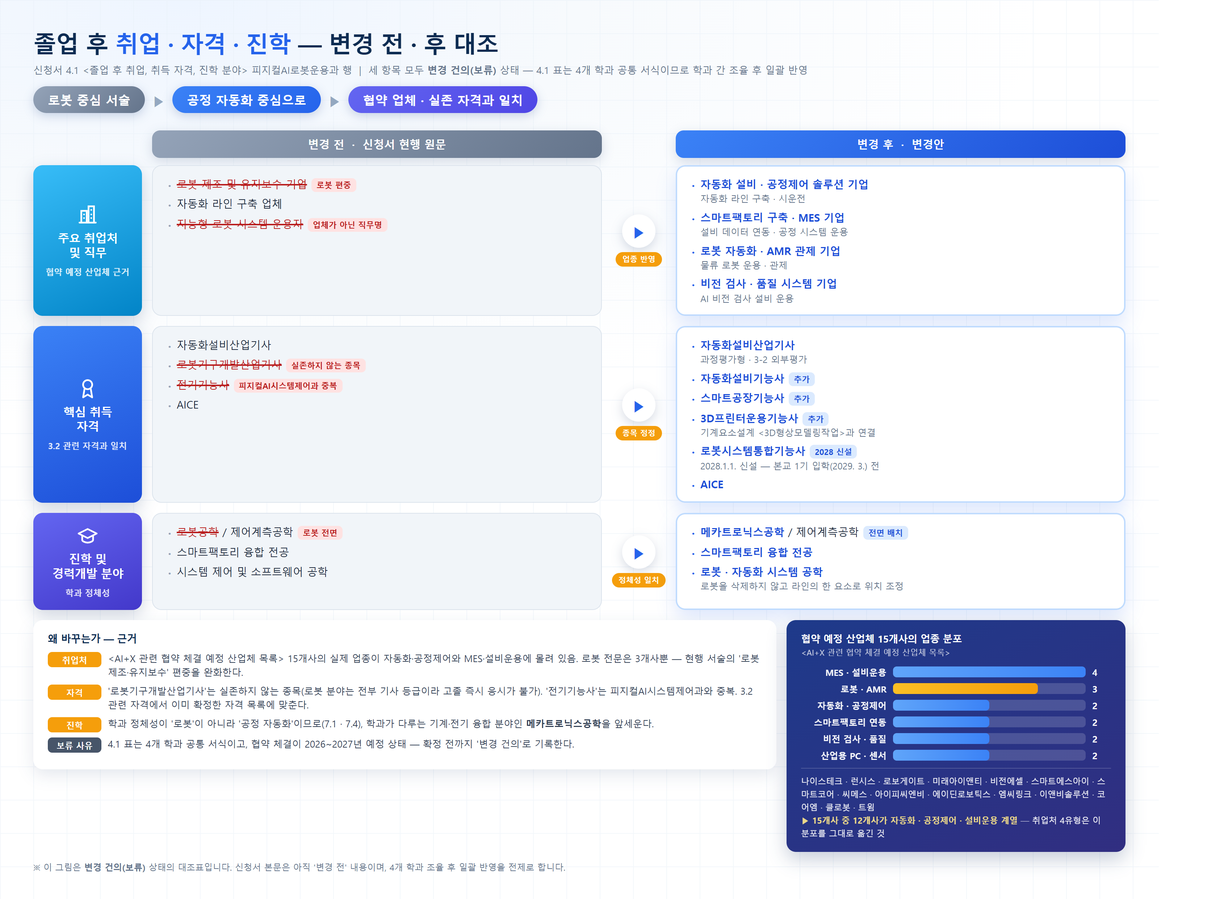
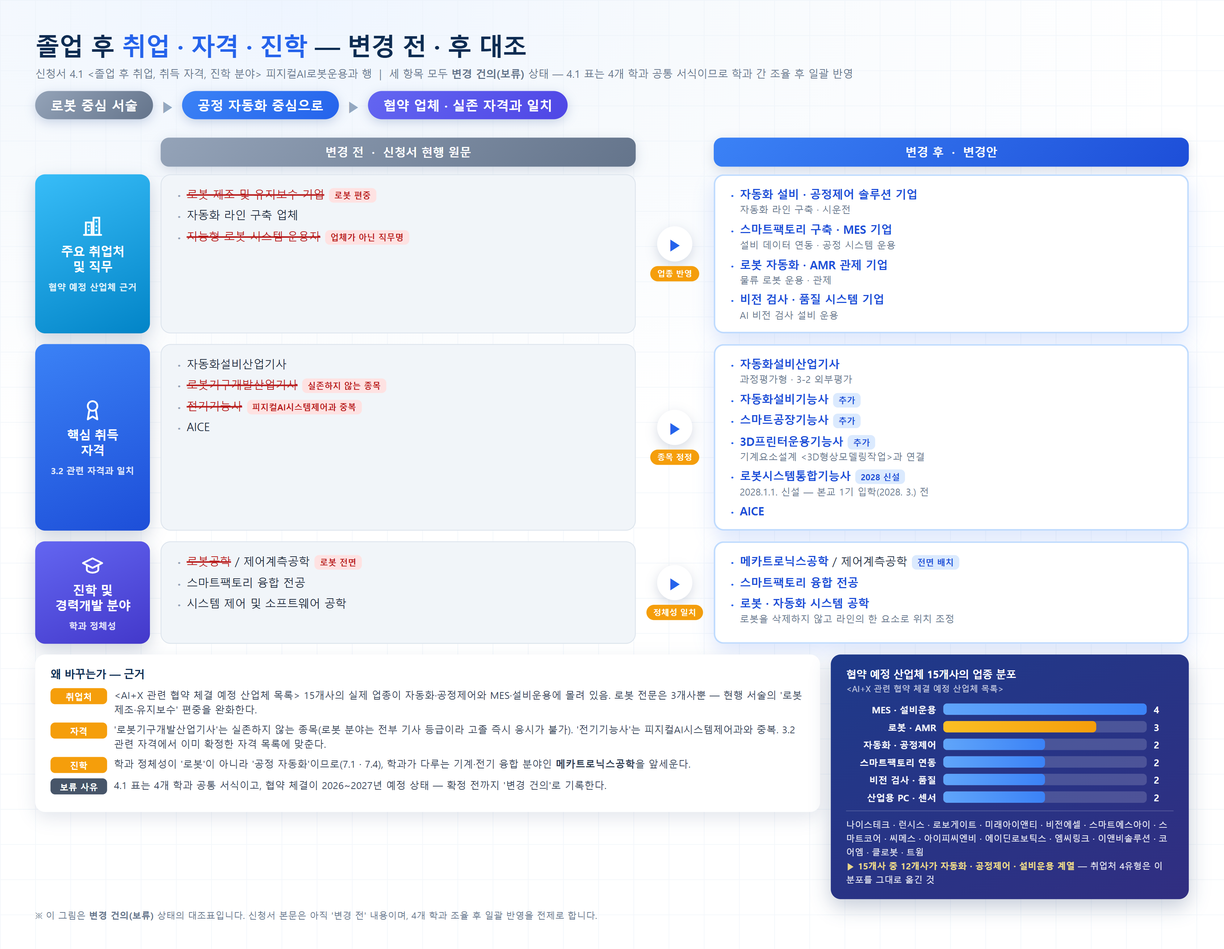
Lab roadmap figures: first cohort enters 2028 (opening year unified)

diff --git a/10_실습실3개년확충로드맵.html b/10_실습실3개년확충로드맵.html
@@ -1,1 +1,1 @@
-<meta charset='utf-8'><style>body{margin:0;background:#fff;font-family:'Malgun Gothic','맑은 고딕',sans-serif}text{font-family:'Malgun Gothic','맑은 고딕',sans-serif}</style><svg xmlns='http://www.w3.org/2000/svg' viewBox='0 0 1600 1212' width='1600' height='1212'><rect width='1600' height='1212' fill='#FFFFFF'/><text x="56" y="58" font-size="32" font-weight="800" fill="#1F4E79">실습실·기자재 3개년 확충 로드맵</text><text x="56" y="90" font-size="15" fill="#666">교육과정이 학년별로 순차 개설되므로(2029학년도 1학년 → 2030학년도 1·2학년 → 2031학년도 전 학년) 실습실은 해당 학년이 쓰기 직전 해에 먼저 구축한다  |  피지컬AI로봇운용과 기준 · 학급당 16명 × 2학급</text><rect x="56" y="118" width="456" height="86" rx="8" fill="#E8F1FA" stroke="#7FA8CE" stroke-width="1.4"/><text x="76" y="152" font-size="24" font-weight="800" fill="#2E6DA4">2028년</text><text x="76" y="176" font-size="15" font-weight="700" fill="#22303C">→ 1학년용 선행 구축 — 2029. 3. 1기 입학</text><text x="76" y="196" font-size="13.5" fill="#666">2029학년도 1학년 32명 사용  ·  쓰기 직전 해 구축</text><path d="M 524 152.0 l 20 9 l -20 9 z" fill="#C8D3DE"/><rect x="572" y="118" width="456" height="86" rx="8" fill="#EAF4EC" stroke="#89B99A" stroke-width="1.4"/><text x="592" y="152" font-size="24" font-weight="800" fill="#2E7D4F">2029년</text><text x="592" y="176" font-size="15" font-weight="700" fill="#22303C">→ 2학년용 선행 구축</text><text x="592" y="196" font-size="13.5" fill="#666">2030학년도 1·2학년 64명 사용  ·  쓰기 직전 해 구축</text><path d="M 1040 152.0 l 20 9 l -20 9 z" fill="#C8D3DE"/><rect x="1088" y="118" width="456" height="86" rx="8" fill="#FBF0E4" stroke="#D6A96A" stroke-width="1.4"/><text x="1108" y="152" font-size="24" font-weight="800" fill="#B5741B">2030년</text><text x="1108" y="176" font-size="15" font-weight="700" fill="#22303C">→ 3학년용 선행 구축</text><text x="1108" y="196" font-size="13.5" fill="#666">2031학년도 전 학년 96명 사용  ·  쓰기 직전 해 구축</text><rect x="56" y="230" width="456" height="128" rx="7" fill="#FFFFFF" stroke="#C8D3DE" stroke-width="1.2"/><rect x="56" y="230" width="5" height="128" rx="2.5" fill="#7FA8CE"/><rect x="70" y="243" width="42" height="20" rx="10" fill="#E3EFF9" stroke="#1F6FB2" stroke-width="0.9"/><text x="91" y="257" text-anchor="middle" font-size="12" font-weight="700" fill="#1F6FB2">신설</text><text x="122" y="258" font-size="16.5" font-weight="800" fill="#22303C">기계요소 설계2 실습실</text><text x="70" y="280" font-size="12.5" fill="#666">분반 운영 2실 구성</text><text x="70" y="300" font-size="12.5" fill="#22303C">설계용 컴퓨터(고사양) 16 · 3D 설계 SW 16 ·</text><text x="70" y="317" font-size="12.5" fill="#22303C">3차원 측정기 2 · 대형 디스플레이 1</text><text x="70" y="344" font-size="12.5" font-weight="700" fill="#2E6DA4">▷ 기계 제도(1-1) · 기계요소설계(1-2)</text><rect x="56" y="370" width="456" height="145" rx="7" fill="#FFFFFF" stroke="#C8D3DE" stroke-width="1.2"/><rect x="56" y="370" width="5" height="145" rx="2.5" fill="#7FA8CE"/><rect x="70" y="383" width="42" height="20" rx="10" fill="#E3EFF9" stroke="#1F6FB2" stroke-width="0.9"/><text x="91" y="397" text-anchor="middle" font-size="12" font-weight="700" fill="#1F6FB2">신설</text><text x="122" y="398" font-size="16.5" font-weight="800" fill="#22303C">실습 자재·재료실</text><text x="70" y="420" font-size="12.5" fill="#666">전 학년 실습 자재 보관</text><text x="70" y="440" font-size="12.5" fill="#22303C">중량 자재 랙 20 · 항온항습 부품 캐비닛 2 ·</text><text x="70" y="457" font-size="12.5" fill="#22303C">자재관리시스템(바코드·RFID) 1 · 재료 절단기 2 ·</text><text x="70" y="474" font-size="12.5" fill="#22303C">보호구 보관함 4</text><text x="70" y="501" font-size="12.5" font-weight="700" fill="#2E6DA4">▷ 1학년 실습 자재 전반</text><rect x="56" y="527" width="456" height="111" rx="7" fill="#FFFFFF" stroke="#C8D3DE" stroke-width="1.2"/><rect x="56" y="527" width="5" height="111" rx="2.5" fill="#7FA8CE"/><rect x="70" y="540" width="42" height="20" rx="10" fill="#EFF2F5" stroke="#5A6570" stroke-width="0.9"/><text x="91" y="554" text-anchor="middle" font-size="12" font-weight="700" fill="#5A6570">정비</text><text x="122" y="555" font-size="14.5" font-weight="800" fill="#22303C">자동화 기구 조립 실습실 · 기계요소설계 실습실</text><text x="70" y="577" font-size="12.5" fill="#666">명칭 정비 — 기존 기자재 활용</text><text x="70" y="597" font-size="12.5" fill="#22303C">신규 기자재 없음 (보유 38점 · 96점)</text><text x="70" y="624" font-size="12.5" font-weight="700" fill="#2E6DA4">▷ 기계수동조립(1-2) · 기계요소설계(1-2)</text><rect x="56" y="650" width="456" height="128" rx="7" fill="#FFFFFF" stroke="#C8D3DE" stroke-width="1.2"/><rect x="56" y="650" width="5" height="128" rx="2.5" fill="#7FA8CE"/><rect x="70" y="663" width="42" height="20" rx="10" fill="#FBE7E4" stroke="#B23A2E" stroke-width="0.9"/><text x="91" y="677" text-anchor="middle" font-size="12" font-weight="700" fill="#B23A2E">확인</text><text x="122" y="678" font-size="16.5" font-weight="800" fill="#22303C">빅데이터 분석실</text><text x="70" y="700" font-size="12.5" fill="#666">4개 학과 공통 — 현재 표에는 2026년으로 편성</text><text x="70" y="720" font-size="12.5" fill="#22303C">모니터 16 · 분석용 PC 16 · 태블릿 16 ·</text><text x="70" y="737" font-size="12.5" fill="#22303C">데이터 저장 서버 1</text><text x="70" y="764" font-size="12.5" font-weight="700" fill="#2E6DA4">▷ 인공지능 일반(1-2) · 빅 데이터 분석(2-1·2-2) — 연차 조정 확인</text><rect x="572" y="230" width="456" height="128" rx="7" fill="#FFFFFF" stroke="#C8D3DE" stroke-width="1.2"/><rect x="572" y="230" width="5" height="128" rx="2.5" fill="#89B99A"/><rect x="586" y="243" width="42" height="20" rx="10" fill="#E3EFF9" stroke="#1F6FB2" stroke-width="0.9"/><text x="607" y="257" text-anchor="middle" font-size="12" font-weight="700" fill="#1F6FB2">신설</text><text x="638" y="258" font-size="16.5" font-weight="800" fill="#22303C">기계소프트웨어개발1 실습실</text><text x="586" y="280" font-size="12.5" fill="#666">분반 운영 2실째 · 외부평가 시험장</text><text x="586" y="300" font-size="12.5" fill="#22303C">PLC 실험장치 8 · HMI 터치패널 8 · 공유압 제어 실습장치 8 ·</text><text x="586" y="317" font-size="12.5" fill="#22303C">센서 활용 키트 8 · 인버터+AC/DC 모터 8</text><text x="586" y="344" font-size="12.5" font-weight="700" fill="#2E7D4F">▷ 기계소프트웨어개발(2-2)</text><rect x="572" y="370" width="456" height="111" rx="7" fill="#FFFFFF" stroke="#C8D3DE" stroke-width="1.2"/><rect x="572" y="370" width="5" height="111" rx="2.5" fill="#89B99A"/><rect x="586" y="383" width="42" height="20" rx="10" fill="#FBF0DC" stroke="#8A5A00" stroke-width="0.9"/><text x="607" y="397" text-anchor="middle" font-size="12" font-weight="700" fill="#8A5A00">전환</text><text x="638" y="398" font-size="16.5" font-weight="800" fill="#22303C">자격 대비 자율실습실</text><text x="586" y="420" font-size="12.5" fill="#666">구 기계소프트웨어개발2 — 용도 부여</text><text x="586" y="440" font-size="12.5" fill="#22303C">기존 장비 활용 · 방과후 자동화설비기능사 대비 전용 공간</text><text x="586" y="467" font-size="12.5" font-weight="700" fill="#2E7D4F">▷ 2학년 자동화설비기능사(2-2)</text><rect x="1088" y="230" width="456" height="128" rx="7" fill="#FFFFFF" stroke="#C8D3DE" stroke-width="1.2"/><rect x="1088" y="230" width="5" height="128" rx="2.5" fill="#D6A96A"/><rect x="1102" y="243" width="42" height="20" rx="10" fill="#FBF0DC" stroke="#8A5A00" stroke-width="0.9"/><text x="1123" y="257" text-anchor="middle" font-size="12" font-weight="700" fill="#8A5A00">전환</text><text x="1154" y="258" font-size="16.5" font-weight="800" fill="#22303C">AMR 운용 실습실</text><text x="1102" y="280" font-size="12.5" fill="#666">구 스마트설비 실습실</text><text x="1102" y="300" font-size="12.5" fill="#22303C">협동로봇 4 · 로봇 통합 관제 서버 1 · 무선 통신 인프라 1 ·</text><text x="1102" y="317" font-size="12.5" fill="#22303C">통합 관제용 비디오 월 1</text><text x="1102" y="344" font-size="12.5" font-weight="700" fill="#B5741B">▷ AMR 운용(3-1·3-2)</text><rect x="1088" y="370" width="456" height="145" rx="7" fill="#FFFFFF" stroke="#C8D3DE" stroke-width="1.2"/><rect x="1088" y="370" width="5" height="145" rx="2.5" fill="#D6A96A"/><rect x="1102" y="383" width="42" height="20" rx="10" fill="#E3EFF9" stroke="#1F6FB2" stroke-width="0.9"/><text x="1123" y="397" text-anchor="middle" font-size="12" font-weight="700" fill="#1F6FB2">신설</text><text x="1154" y="398" font-size="16.5" font-weight="800" fill="#22303C">기계제어설계 실습실</text><text x="1102" y="420" font-size="12.5" fill="#666">3학년 전공심화 파트 1</text><text x="1102" y="440" font-size="12.5" fill="#22303C">PLC 실험장치(특수모듈) 16 · 인버터+AC/DC 모터 16 ·</text><text x="1102" y="457" font-size="12.5" fill="#22303C">공유압 제어 실습장치 16 · HMI 터치패널 16 · 컨베이어 모듈 4 ·</text><text x="1102" y="474" font-size="12.5" fill="#22303C">3D 설계 SW 16 · AI 비전 센서 8</text><text x="1102" y="501" font-size="12.5" font-weight="700" fill="#B5741B">▷ 기계제어설계(3-1·3-2)</text><rect x="1088" y="527" width="456" height="128" rx="7" fill="#FFFFFF" stroke="#C8D3DE" stroke-width="1.2"/><rect x="1088" y="527" width="5" height="128" rx="2.5" fill="#D6A96A"/><rect x="1102" y="540" width="42" height="20" rx="10" fill="#E3EFF9" stroke="#1F6FB2" stroke-width="0.9"/><text x="1123" y="554" text-anchor="middle" font-size="12" font-weight="700" fill="#1F6FB2">신설</text><text x="1154" y="555" font-size="16.5" font-weight="800" fill="#22303C">스마트팩토리 프로세서 실습실</text><text x="1102" y="577" font-size="12.5" fill="#666">3학년 전공심화 파트 2</text><text x="1102" y="597" font-size="12.5" fill="#22303C">PLC 실험장치 16 · 소형 팩토리 라인 설비 2 · HMI 장비 16 ·</text><text x="1102" y="614" font-size="12.5" fill="#22303C">협동 로봇 실습 장비 4</text><text x="1102" y="641" font-size="12.5" font-weight="700" fill="#B5741B">▷ 스마트팩토리 프로세서(3-1·3-2)</text><rect x="1088" y="667" width="456" height="145" rx="7" fill="#FFFFFF" stroke="#C8D3DE" stroke-width="1.2"/><rect x="1088" y="667" width="5" height="145" rx="2.5" fill="#D6A96A"/><rect x="1102" y="680" width="42" height="20" rx="10" fill="#FBF0DC" stroke="#8A5A00" stroke-width="0.9"/><text x="1123" y="694" text-anchor="middle" font-size="12" font-weight="700" fill="#8A5A00">확장</text><text x="1154" y="695" font-size="16.5" font-weight="800" fill="#22303C">AX 캡스톤 제작실</text><text x="1102" y="717" font-size="12.5" fill="#666">프로젝트실 + 인접 재료실 통합</text><text x="1102" y="737" font-size="12.5" fill="#22303C">대형 작업대 8 · 전동·수공구 8 · 3D 프린터 4 ·</text><text x="1102" y="754" font-size="12.5" fill="#22303C">소형 CNC 조각기 2 · 거치·보관 랙 8 · 집진·국소배기 2 ·</text><text x="1102" y="771" font-size="12.5" fill="#22303C">촬영·발표 세트 1 · 출입 관리 2</text><text x="1102" y="798" font-size="12.5" font-weight="700" fill="#B5741B">▷ 캡스톤 디자인(3-2) — 두 학과 통합 16팀 중 8팀</text><rect x="1088" y="824" width="456" height="128" rx="7" fill="#FFFFFF" stroke="#C8D3DE" stroke-width="1.2"/><rect x="1088" y="824" width="5" height="128" rx="2.5" fill="#D6A96A"/><rect x="1102" y="837" width="42" height="20" rx="10" fill="#FBF0DC" stroke="#8A5A00" stroke-width="0.9"/><text x="1123" y="851" text-anchor="middle" font-size="12" font-weight="700" fill="#8A5A00">전환</text><text x="1154" y="852" font-size="16.5" font-weight="800" fill="#22303C">과정평가형 운영실</text><text x="1102" y="874" font-size="12.5" fill="#666">구 스마트설계 실습실</text><text x="1102" y="894" font-size="12.5" fill="#22303C">시험위원 책상 세트 6 · 채점용 PC 4 · 보안 복합기 1 ·</text><text x="1102" y="911" font-size="12.5" fill="#22303C">문서보안 캐비닛 4 · 시험장 CCTV 1 · 회의 테이블 1</text><text x="1102" y="938" font-size="12.5" font-weight="700" fill="#B5741B">▷ 과정평가형 외부평가(3-2)</text><rect x="1088" y="964" width="456" height="128" rx="7" fill="#FFFFFF" stroke="#C8D3DE" stroke-width="1.2"/><rect x="1088" y="964" width="5" height="128" rx="2.5" fill="#D6A96A"/><rect x="1102" y="977" width="42" height="20" rx="10" fill="#FBE7E4" stroke="#B23A2E" stroke-width="0.9"/><text x="1123" y="991" text-anchor="middle" font-size="12" font-weight="700" fill="#B23A2E">협의</text><text x="1154" y="992" font-size="16.5" font-weight="800" fill="#22303C">AI 로봇과 자동제어 실습실2</text><text x="1102" y="1014" font-size="12.5" fill="#666">피지컬AI설계제작과 공동 운영 교과</text><text x="1102" y="1034" font-size="12.5" fill="#22303C">협동로봇 4 · 자율주행 물류로봇 2 · 고성능 PLC 16 ·</text><text x="1102" y="1051" font-size="12.5" fill="#22303C">시뮬레이션 키트 16 · AI 비전 8</text><text x="1102" y="1078" font-size="12.5" font-weight="700" fill="#B5741B">▷ AI 로봇과 자동제어(3-1·3-2) — 피지컬AI설계제작과 협의 대상</text><line x1="56" y1="1116" x2="1544" y2="1116" stroke="#C8D3DE" stroke-width="1"/><text x="56" y="1138" font-size="13.5" fill="#666">▶ 연도 = 해당 학년 실습실을 쓰기 직전 해(교육과정 총괄 지시 「2028~2030 연차별」 · 피지컬AI설계제작과와 같은 기준).  1기 신입생 2029. 3. 입학 · 3학년 교과는 2031학년도</text><text x="56" y="1160" font-size="13.5" fill="#666">▶ 신규 기자재 추정액(견적 전) : 2028년 약 1.1억 · 2029년 약 0.9억 · 2030년 약 3.3억 (AMR 운용·스마트팩토리 프로세서 원안 품목 제외) — 3학년분이 가장 크다</text><text x="56" y="1182" font-size="13.5" fill="#B23A2E">▶ 신청서 Ⅶ 예산 연차는 2028년 41.6억 → 2029년 16.6억 → 2030년 15.5억으로 줄어드는 구조라 3학년 기자재가 몰리는 2030년과 어긋난다 — 총괄 확인 필요</text></svg>
+<meta charset='utf-8'><style>body{margin:0;background:#fff;font-family:'Malgun Gothic','맑은 고딕',sans-serif}text{font-family:'Malgun Gothic','맑은 고딕',sans-serif}</style><svg xmlns='http://www.w3.org/2000/svg' viewBox='0 0 1600 1212' width='1600' height='1212'><rect width='1600' height='1212' fill='#FFFFFF'/><text x="56" y="58" font-size="32" font-weight="800" fill="#1F4E79">실습실·기자재 3개년 확충 로드맵</text><text x="56" y="90" font-size="15" fill="#666">교육과정이 학년별로 순차 개설되므로(2028학년도 1학년 → 2029학년도 1·2학년 → 2030학년도 전 학년) 실습실은 해당 학년이 개설되는 해에 구축한다  |  피지컬AI로봇운용과 기준 · 학급당 16명 × 2학급</text><rect x="56" y="118" width="456" height="86" rx="8" fill="#E8F1FA" stroke="#7FA8CE" stroke-width="1.4"/><text x="76" y="152" font-size="24" font-weight="800" fill="#2E6DA4">2028년</text><text x="76" y="176" font-size="15" font-weight="700" fill="#22303C">→ 1학년용 구축 — 2028. 3. 1기 입학</text><text x="76" y="196" font-size="13.5" fill="#666">2028학년도 1학년 32명 사용  ·  개설하는 해 구축</text><path d="M 524 152.0 l 20 9 l -20 9 z" fill="#C8D3DE"/><rect x="572" y="118" width="456" height="86" rx="8" fill="#EAF4EC" stroke="#89B99A" stroke-width="1.4"/><text x="592" y="152" font-size="24" font-weight="800" fill="#2E7D4F">2029년</text><text x="592" y="176" font-size="15" font-weight="700" fill="#22303C">→ 2학년용 구축</text><text x="592" y="196" font-size="13.5" fill="#666">2029학년도 1·2학년 64명 사용  ·  개설하는 해 구축</text><path d="M 1040 152.0 l 20 9 l -20 9 z" fill="#C8D3DE"/><rect x="1088" y="118" width="456" height="86" rx="8" fill="#FBF0E4" stroke="#D6A96A" stroke-width="1.4"/><text x="1108" y="152" font-size="24" font-weight="800" fill="#B5741B">2030년</text><text x="1108" y="176" font-size="15" font-weight="700" fill="#22303C">→ 3학년용 구축</text><text x="1108" y="196" font-size="13.5" fill="#666">2030학년도 전 학년 96명 사용  ·  개설하는 해 구축</text><rect x="56" y="230" width="456" height="128" rx="7" fill="#FFFFFF" stroke="#C8D3DE" stroke-width="1.2"/><rect x="56" y="230" width="5" height="128" rx="2.5" fill="#7FA8CE"/><rect x="70" y="243" width="42" height="20" rx="10" fill="#E3EFF9" stroke="#1F6FB2" stroke-width="0.9"/><text x="91" y="257" text-anchor="middle" font-size="12" font-weight="700" fill="#1F6FB2">신설</text><text x="122" y="258" font-size="16.5" font-weight="800" fill="#22303C">기계요소 설계2 실습실</text><text x="70" y="280" font-size="12.5" fill="#666">분반 운영 2실 구성</text><text x="70" y="300" font-size="12.5" fill="#22303C">설계용 컴퓨터(고사양) 16 · 3D 설계 SW 16 ·</text><text x="70" y="317" font-size="12.5" fill="#22303C">3차원 측정기 2 · 대형 디스플레이 1</text><text x="70" y="344" font-size="12.5" font-weight="700" fill="#2E6DA4">▷ 기계 제도(1-1) · 기계요소설계(1-2)</text><rect x="56" y="370" width="456" height="145" rx="7" fill="#FFFFFF" stroke="#C8D3DE" stroke-width="1.2"/><rect x="56" y="370" width="5" height="145" rx="2.5" fill="#7FA8CE"/><rect x="70" y="383" width="42" height="20" rx="10" fill="#E3EFF9" stroke="#1F6FB2" stroke-width="0.9"/><text x="91" y="397" text-anchor="middle" font-size="12" font-weight="700" fill="#1F6FB2">신설</text><text x="122" y="398" font-size="16.5" font-weight="800" fill="#22303C">실습 자재·재료실</text><text x="70" y="420" font-size="12.5" fill="#666">전 학년 실습 자재 보관</text><text x="70" y="440" font-size="12.5" fill="#22303C">중량 자재 랙 20 · 항온항습 부품 캐비닛 2 ·</text><text x="70" y="457" font-size="12.5" fill="#22303C">자재관리시스템(바코드·RFID) 1 · 재료 절단기 2 ·</text><text x="70" y="474" font-size="12.5" fill="#22303C">보호구 보관함 4</text><text x="70" y="501" font-size="12.5" font-weight="700" fill="#2E6DA4">▷ 1학년 실습 자재 전반</text><rect x="56" y="527" width="456" height="111" rx="7" fill="#FFFFFF" stroke="#C8D3DE" stroke-width="1.2"/><rect x="56" y="527" width="5" height="111" rx="2.5" fill="#7FA8CE"/><rect x="70" y="540" width="42" height="20" rx="10" fill="#EFF2F5" stroke="#5A6570" stroke-width="0.9"/><text x="91" y="554" text-anchor="middle" font-size="12" font-weight="700" fill="#5A6570">정비</text><text x="122" y="555" font-size="14.5" font-weight="800" fill="#22303C">자동화 기구 조립 실습실 · 기계요소설계 실습실</text><text x="70" y="577" font-size="12.5" fill="#666">명칭 정비 — 기존 기자재 활용</text><text x="70" y="597" font-size="12.5" fill="#22303C">신규 기자재 없음 (보유 38점 · 96점)</text><text x="70" y="624" font-size="12.5" font-weight="700" fill="#2E6DA4">▷ 기계수동조립(1-2) · 기계요소설계(1-2)</text><rect x="56" y="650" width="456" height="128" rx="7" fill="#FFFFFF" stroke="#C8D3DE" stroke-width="1.2"/><rect x="56" y="650" width="5" height="128" rx="2.5" fill="#7FA8CE"/><rect x="70" y="663" width="42" height="20" rx="10" fill="#FBE7E4" stroke="#B23A2E" stroke-width="0.9"/><text x="91" y="677" text-anchor="middle" font-size="12" font-weight="700" fill="#B23A2E">확인</text><text x="122" y="678" font-size="16.5" font-weight="800" fill="#22303C">빅데이터 분석실</text><text x="70" y="700" font-size="12.5" fill="#666">4개 학과 공통 — 현재 표에는 2026년으로 편성</text><text x="70" y="720" font-size="12.5" fill="#22303C">모니터 16 · 분석용 PC 16 · 태블릿 16 ·</text><text x="70" y="737" font-size="12.5" fill="#22303C">데이터 저장 서버 1</text><text x="70" y="764" font-size="12.5" font-weight="700" fill="#2E6DA4">▷ 인공지능 일반(1-2) · 빅 데이터 분석(2-1·2-2) — 연차 조정 확인</text><rect x="572" y="230" width="456" height="128" rx="7" fill="#FFFFFF" stroke="#C8D3DE" stroke-width="1.2"/><rect x="572" y="230" width="5" height="128" rx="2.5" fill="#89B99A"/><rect x="586" y="243" width="42" height="20" rx="10" fill="#E3EFF9" stroke="#1F6FB2" stroke-width="0.9"/><text x="607" y="257" text-anchor="middle" font-size="12" font-weight="700" fill="#1F6FB2">신설</text><text x="638" y="258" font-size="16.5" font-weight="800" fill="#22303C">기계소프트웨어개발1 실습실</text><text x="586" y="280" font-size="12.5" fill="#666">분반 운영 2실째 · 외부평가 시험장</text><text x="586" y="300" font-size="12.5" fill="#22303C">PLC 실험장치 8 · HMI 터치패널 8 · 공유압 제어 실습장치 8 ·</text><text x="586" y="317" font-size="12.5" fill="#22303C">센서 활용 키트 8 · 인버터+AC/DC 모터 8</text><text x="586" y="344" font-size="12.5" font-weight="700" fill="#2E7D4F">▷ 기계소프트웨어개발(2-2)</text><rect x="572" y="370" width="456" height="111" rx="7" fill="#FFFFFF" stroke="#C8D3DE" stroke-width="1.2"/><rect x="572" y="370" width="5" height="111" rx="2.5" fill="#89B99A"/><rect x="586" y="383" width="42" height="20" rx="10" fill="#FBF0DC" stroke="#8A5A00" stroke-width="0.9"/><text x="607" y="397" text-anchor="middle" font-size="12" font-weight="700" fill="#8A5A00">전환</text><text x="638" y="398" font-size="16.5" font-weight="800" fill="#22303C">자격 대비 자율실습실</text><text x="586" y="420" font-size="12.5" fill="#666">구 기계소프트웨어개발2 — 용도 부여</text><text x="586" y="440" font-size="12.5" fill="#22303C">기존 장비 활용 · 방과후 자동화설비기능사 대비 전용 공간</text><text x="586" y="467" font-size="12.5" font-weight="700" fill="#2E7D4F">▷ 2학년 자동화설비기능사(2-2)</text><rect x="1088" y="230" width="456" height="128" rx="7" fill="#FFFFFF" stroke="#C8D3DE" stroke-width="1.2"/><rect x="1088" y="230" width="5" height="128" rx="2.5" fill="#D6A96A"/><rect x="1102" y="243" width="42" height="20" rx="10" fill="#FBF0DC" stroke="#8A5A00" stroke-width="0.9"/><text x="1123" y="257" text-anchor="middle" font-size="12" font-weight="700" fill="#8A5A00">전환</text><text x="1154" y="258" font-size="16.5" font-weight="800" fill="#22303C">AMR 운용 실습실</text><text x="1102" y="280" font-size="12.5" fill="#666">구 스마트설비 실습실</text><text x="1102" y="300" font-size="12.5" fill="#22303C">협동로봇 4 · 로봇 통합 관제 서버 1 · 무선 통신 인프라 1 ·</text><text x="1102" y="317" font-size="12.5" fill="#22303C">통합 관제용 비디오 월 1</text><text x="1102" y="344" font-size="12.5" font-weight="700" fill="#B5741B">▷ AMR 운용(3-1·3-2)</text><rect x="1088" y="370" width="456" height="145" rx="7" fill="#FFFFFF" stroke="#C8D3DE" stroke-width="1.2"/><rect x="1088" y="370" width="5" height="145" rx="2.5" fill="#D6A96A"/><rect x="1102" y="383" width="42" height="20" rx="10" fill="#E3EFF9" stroke="#1F6FB2" stroke-width="0.9"/><text x="1123" y="397" text-anchor="middle" font-size="12" font-weight="700" fill="#1F6FB2">신설</text><text x="1154" y="398" font-size="16.5" font-weight="800" fill="#22303C">기계제어설계 실습실</text><text x="1102" y="420" font-size="12.5" fill="#666">3학년 전공심화 파트 1</text><text x="1102" y="440" font-size="12.5" fill="#22303C">PLC 실험장치(특수모듈) 16 · 인버터+AC/DC 모터 16 ·</text><text x="1102" y="457" font-size="12.5" fill="#22303C">공유압 제어 실습장치 16 · HMI 터치패널 16 · 컨베이어 모듈 4 ·</text><text x="1102" y="474" font-size="12.5" fill="#22303C">3D 설계 SW 16 · AI 비전 센서 8</text><text x="1102" y="501" font-size="12.5" font-weight="700" fill="#B5741B">▷ 기계제어설계(3-1·3-2)</text><rect x="1088" y="527" width="456" height="128" rx="7" fill="#FFFFFF" stroke="#C8D3DE" stroke-width="1.2"/><rect x="1088" y="527" width="5" height="128" rx="2.5" fill="#D6A96A"/><rect x="1102" y="540" width="42" height="20" rx="10" fill="#E3EFF9" stroke="#1F6FB2" stroke-width="0.9"/><text x="1123" y="554" text-anchor="middle" font-size="12" font-weight="700" fill="#1F6FB2">신설</text><text x="1154" y="555" font-size="16.5" font-weight="800" fill="#22303C">스마트팩토리 프로세서 실습실</text><text x="1102" y="577" font-size="12.5" fill="#666">3학년 전공심화 파트 2</text><text x="1102" y="597" font-size="12.5" fill="#22303C">PLC 실험장치 16 · 소형 팩토리 라인 설비 2 · HMI 장비 16 ·</text><text x="1102" y="614" font-size="12.5" fill="#22303C">협동 로봇 실습 장비 4</text><text x="1102" y="641" font-size="12.5" font-weight="700" fill="#B5741B">▷ 스마트팩토리 프로세서(3-1·3-2)</text><rect x="1088" y="667" width="456" height="145" rx="7" fill="#FFFFFF" stroke="#C8D3DE" stroke-width="1.2"/><rect x="1088" y="667" width="5" height="145" rx="2.5" fill="#D6A96A"/><rect x="1102" y="680" width="42" height="20" rx="10" fill="#FBF0DC" stroke="#8A5A00" stroke-width="0.9"/><text x="1123" y="694" text-anchor="middle" font-size="12" font-weight="700" fill="#8A5A00">확장</text><text x="1154" y="695" font-size="16.5" font-weight="800" fill="#22303C">AX 캡스톤 제작실</text><text x="1102" y="717" font-size="12.5" fill="#666">프로젝트실 + 인접 재료실 통합</text><text x="1102" y="737" font-size="12.5" fill="#22303C">대형 작업대 8 · 전동·수공구 8 · 3D 프린터 4 ·</text><text x="1102" y="754" font-size="12.5" fill="#22303C">소형 CNC 조각기 2 · 거치·보관 랙 8 · 집진·국소배기 2 ·</text><text x="1102" y="771" font-size="12.5" fill="#22303C">촬영·발표 세트 1 · 출입 관리 2</text><text x="1102" y="798" font-size="12.5" font-weight="700" fill="#B5741B">▷ 캡스톤 디자인(3-2) — 두 학과 통합 16팀 중 8팀</text><rect x="1088" y="824" width="456" height="128" rx="7" fill="#FFFFFF" stroke="#C8D3DE" stroke-width="1.2"/><rect x="1088" y="824" width="5" height="128" rx="2.5" fill="#D6A96A"/><rect x="1102" y="837" width="42" height="20" rx="10" fill="#FBF0DC" stroke="#8A5A00" stroke-width="0.9"/><text x="1123" y="851" text-anchor="middle" font-size="12" font-weight="700" fill="#8A5A00">전환</text><text x="1154" y="852" font-size="16.5" font-weight="800" fill="#22303C">과정평가형 운영실</text><text x="1102" y="874" font-size="12.5" fill="#666">구 스마트설계 실습실</text><text x="1102" y="894" font-size="12.5" fill="#22303C">시험위원 책상 세트 6 · 채점용 PC 4 · 보안 복합기 1 ·</text><text x="1102" y="911" font-size="12.5" fill="#22303C">문서보안 캐비닛 4 · 시험장 CCTV 1 · 회의 테이블 1</text><text x="1102" y="938" font-size="12.5" font-weight="700" fill="#B5741B">▷ 과정평가형 외부평가(3-2)</text><rect x="1088" y="964" width="456" height="128" rx="7" fill="#FFFFFF" stroke="#C8D3DE" stroke-width="1.2"/><rect x="1088" y="964" width="5" height="128" rx="2.5" fill="#D6A96A"/><rect x="1102" y="977" width="42" height="20" rx="10" fill="#FBE7E4" stroke="#B23A2E" stroke-width="0.9"/><text x="1123" y="991" text-anchor="middle" font-size="12" font-weight="700" fill="#B23A2E">협의</text><text x="1154" y="992" font-size="16.5" font-weight="800" fill="#22303C">AI 로봇과 자동제어 실습실2</text><text x="1102" y="1014" font-size="12.5" fill="#666">피지컬AI설계제작과 공동 운영 교과</text><text x="1102" y="1034" font-size="12.5" fill="#22303C">협동로봇 4 · 자율주행 물류로봇 2 · 고성능 PLC 16 ·</text><text x="1102" y="1051" font-size="12.5" fill="#22303C">시뮬레이션 키트 16 · AI 비전 8</text><text x="1102" y="1078" font-size="12.5" font-weight="700" fill="#B5741B">▷ AI 로봇과 자동제어(3-1·3-2) — 피지컬AI설계제작과 협의 대상</text><line x1="56" y1="1116" x2="1544" y2="1116" stroke="#C8D3DE" stroke-width="1"/><text x="56" y="1138" font-size="13.5" fill="#666">▶ 연도 = 해당 학년이 개설되는 해(교육과정 총괄 지시 「2028~2030 연차별」 · 본문 기자재 확보 계획과 같은 기준).  1기 신입생 2028. 3. 입학 · 3학년 교과는 2030학년도</text><text x="56" y="1160" font-size="13.5" fill="#666">▶ 신규 기자재 추정액(견적 전) : 2028년 약 1.1억 · 2029년 약 0.9억 · 2030년 약 3.3억 (AMR 운용·스마트팩토리 프로세서 원안 품목 제외) — 3학년분이 가장 크다</text><text x="56" y="1182" font-size="13.5" fill="#B23A2E">▶ 신청서 Ⅶ 예산 연차는 2028년 41.6억 → 2029년 16.6억 → 2030년 15.5억으로 줄어드는 구조라 3학년 기자재가 몰리는 2030년과 어긋난다 — 총괄 확인 필요</text></svg>

diff --git a/학과별/피지컬AI설계제작과_7_실습실3개년로드맵.html b/학과별/피지컬AI설계제작과_7_실습실3개년로드맵.html
@@ -41,4 +41,4 @@ table{border-collapse:separate;border-spacing:0;width:100%} td,th{padding:7px 9p
 .rm{display:grid;grid-template-columns:repeat(3,1fr);gap:40px} .rm > div{position:relative} .rm > div:not(:last-child)::after{content:"➜";position:absolute;right:-38px;top:60px;transform:translateY(-50%);width:40px;height:40px;border-radius:50%;background:linear-gradient(135deg,#FF6B6B,#845EF7);color:#fff;font-size:22px;font-weight:900;display:flex;align-items:center;justify-content:center;box-shadow:0 4px 10px rgba(80,40,160,.35);z-index:5}
 .rm > div:nth-child(1) .rmh{background:linear-gradient(135deg,#FF6B6B,#FF922B)!important} .rm > div:nth-child(2) .rmh{background:linear-gradient(135deg,#20C997,#228BE6)!important} .rm > div:nth-child(3) .rmh{background:linear-gradient(135deg,#7950F2,#E64980)!important}
 .rm > div:nth-child(1) .rmb .hd{color:#E8590C!important} .rm > div:nth-child(2) .rmb .hd{color:#1971C2!important} .rm > div:nth-child(3) .rmb .hd{color:#5F3DC4!important}
-.rmh{border-radius:16px 16px 0 0;padding:12px 16px;color:#fff} .rmh b{font-size:26px} .rmh span{font-size:14.5px;display:block} .rmb{background:#fff;border:2px solid #E3E0F5;border-top:none;border-radius:0 0 16px 16px;padding:12px 14px} .rmb .r{margin-bottom:11px;padding-left:10px;border-left:4px solid #E9E3FF} .rmb .r b{font-size:16px} .rmb .r div{font-size:14px;color:#4a5261;line-height:1.45}</style></head><body><div class="w"><h1><em>피지컬AI설계제작과</em> 실습실·기자재 3개년 로드맵</h1><div class="sub">1기 신입생 2029년 3월 입학 — 실습실과 기자재는 그 학년이 쓰기 직전 해에 먼저 구축한다</div><div class="story"><span class="st l">2028 · 1학년용</span><span class="arw">▶</span><span class="st">2029 · 2학년용</span><span class="arw">▶</span><span class="st">2030 · 3학년용</span></div><div class="rm"><div><div class="rmh" style="background:#2FA4E7"><b>2028년</b><span>1학년 실습실 선행 구축 및 기존 공간 보호</span></div><div class="rmb"><div class="hd" style="font-size:15.5px;color:#2FA4E7">실습실 배치·전환</div><div class="r"><b>선반 가공실·밀링가공실</b><div>창조관 1층 우측·중앙 · 2028.1 동계방학</div><div>기존 범용기 실습실 개보수, 전기·집진·안전펜스 보강</div></div><div class="r"><b>기계기초공작실(구 제품개발실 재통합)</b><div>창조관 1층 우측 · 2028.7 하계방학</div><div>측정·메이커 분할 계획을 취소하고 수가공 작업대와 선반·밀링 강의 기능을 하나의 기계기초공작실로 재통합</div></div><div class="r"><b>빅 데이터 분석실(MCT-2 전환)</b><div>창조관 1층 중앙 MCT-2 · 2028.7 하계방학</div><div>MCT-2를 분석용 컴퓨터실로 전환하고 전원·냉방·서버 랙 증설</div></div><div class="r"><b>밀링 강의실·학과사무실·준비실</b><div>창조관 1층 중앙·우측 · 2028.7</div><div>도색·조명·수납 중심의 경미 개보수</div></div><div class="r"><b>측정·메이커·3D프린터 기능 이전 준비</b><div>명장관 2층 우측 3실(2029년 겨울 전환 예정) · 2028 계획 확정</div><div>창조관 우측동 분할 계획을 취소하고 명장관 2층 3실 이전·전환 계획과 기존 공간 존치 원칙 확정</div></div><div class="hd" style="font-size:15.5px;color:#2FA4E7;margin-top:8px">기자재</div><div class="r"><b>선반 가공실</b> <span class="chip" style="font-size:12.5px;padding:2px 7px">1순위</span><div>범용 선반, 탭·드릴·보링 공구 세트, 안전 방호장치</div><div style="color:#1a2233;font-weight:700">2인 1대·8대</div></div><div class="r"><b>밀링가공실</b> <span class="chip" style="font-size:12.5px;padding:2px 7px">1순위</span><div>범용 밀링, 집진 설비</div><div style="color:#1a2233;font-weight:700">2인 1대·8대</div></div><div class="r"><b>기계기초공작실</b> <span class="chip" style="font-size:12.5px;padding:2px 7px">1순위</span><div>수공구 세트(줄·톱·바이스), 수가공 작업대, 선반·밀링 강의용 모형</div><div style="color:#1a2233;font-weight:700">2인 1대·8대</div></div><div class="r"><b>빅 데이터 분석실</b> <span class="chip" style="font-size:12.5px;padding:2px 7px">2순위</span><div>분석용 PC(파이썬 환경), 실습 서버, 대형 표시장치</div><div style="color:#1a2233;font-weight:700">1인 1대+예비 2·18식</div></div><div class="r"><b>측정·메이커·3D프린터 이전 준비</b> <span class="chip" style="font-size:12.5px;padding:2px 7px">2순위</span><div>명장관 2층 3실 전환을 위한 공간·전기·환기 정비 설계 및 이전 준비</div><div style="color:#1a2233;font-weight:700">3실</div></div><div class="r"><b>공통</b> <span class="chip" style="font-size:12.5px;padding:2px 7px">1순위</span><div>버니어캘리퍼스·마이크로미터 등 기초 측정기 세트, 안전보호구</div><div style="color:#1a2233;font-weight:700">2인 1세트·8식</div></div></div></div><div><div class="rmh" style="background:#2563EB"><b>2029년</b><span>1기 신입생 입학·2학년 실습실 선행 정비 및 겨울방학 1차 전환</span></div><div class="rmb"><div class="hd" style="font-size:15.5px;color:#2563EB">실습실 배치·전환</div><div class="r"><b>기계요소설계 실습실(+CAD 기능 통합 → 설계실습실)</b><div>창조관 1층 중앙 · 2029.7 하계방학</div><div>기계요소설계 실습실에 CAD 기능을 통합하여 3D 설계·도면 출력 환경 구축</div></div><div class="r"><b>컴퓨터 활용 생산 CNC선반</b><div>창조관 1층 우측 · 2029.7 하계방학</div><div>CNC 선반·공구 프리세터·절삭공구 구축, 바닥 하중 및 3상 전원 보강</div></div><div class="r"><b>측정실·메이커실·3D프린터실</b><div>명장관 2층 우측 3실 · 2029년 겨울방학</div><div>구 재료실·구 AI실·기존 3D프린터실을 전환하고 항온·방진·환기·전기 설비를 정비</div></div><div class="hd" style="font-size:15.5px;color:#2563EB;margin-top:8px">기자재</div><div class="r"><b>측정실(명장관 2층)</b> <span class="chip" style="font-size:12.5px;padding:2px 7px">2순위</span><div>하이트게이지, 투영기, 표면조도계, 측정기 교정 세트, 항온 관리 설비</div><div style="color:#1a2233;font-weight:700">2인 1세트·8식</div></div><div class="r"><b>컴퓨터 활용 생산 CNC선반</b> <span class="chip" style="font-size:12.5px;padding:2px 7px">1순위</span><div>CNC 선반, CAM 소프트웨어, 공구 프리세터, 절삭공구·홀더</div><div style="color:#1a2233;font-weight:700">6대·CAM 18라이선스</div></div><div class="r"><b>기계요소설계 실습실</b> <span class="chip" style="font-size:12.5px;padding:2px 7px">1순위</span><div>3D 워크스테이션, 2D·3D CAD 소프트웨어, 전자칠판, 도면 출력기</div><div style="color:#1a2233;font-weight:700">1인 1대+예비 2·18식</div></div><div class="r"><b>메이커실·3D프린터실</b> <span class="chip" style="font-size:12.5px;padding:2px 7px">2순위</span><div>조립 작업대·전동공구·소형 제어 실습 키트·FDM 3D프린터·후가공대·환기 설비</div><div style="color:#1a2233;font-weight:700">조립 작업대 8대·3D프린터 8대</div></div></div></div><div><div class="rmh" style="background:#4F46E5"><b>2030년</b><span>MCT-1·명장관 1층·3학년 AX 실습실 전환</span></div><div class="rmb"><div class="hd" style="font-size:15.5px;color:#4F46E5">실습실 배치·전환</div><div class="r"><b>피지컬 AI 실습실</b><div>명장관 1층 우측 · 2030.7 여름방학</div><div>협동로봇 셀 신설, 안전펜스·스캐너·바닥 앵커·3상 전원 구축</div></div><div class="r"><b>AI 비전 검사 실습실</b><div>명장관 1층 우측 기존 로봇 기구개발 실습실 전환 · 2030.7 여름방학</div><div>암막·조명 제어·검사 부스·GPU 서버 랙 설치 및 용도 전환</div></div><div class="r"><b>AI 자율가공실</b><div>창조관 1층 우측 · 2030.7 여름방학</div><div>데이터 수집 게이트웨이와 대시보드 표시장치 신설</div></div><div class="r"><b>AI 로봇과 자동제어 실습실</b><div>창조관 1층 중앙 기존 로봇과 자동제어 실습실1 · 2030.7 여름방학</div><div>명칭 정비, AMR 주행 구역 및 충전 스테이션 확보</div></div><div class="r"><b>프로젝트실·CAD/CAM실</b><div>명장관 1층 우측 구 도제교육센터 · 2030.7 여름방학</div><div>구 도제교육센터 자리 전환, 프로젝트용 대형 작업대·전원 증설 및 CAD/CAM실 예비 실습환경 확보</div></div><div class="hd" style="font-size:15.5px;color:#4F46E5;margin-top:8px">기자재</div><div class="r"><b>피지컬 AI 실습실</b> <span class="chip" style="font-size:12.5px;padding:2px 7px">1순위</span><div>협동로봇·그리퍼·안전 스캐너 셀, CNC-로봇 연동 I/O 모듈, 기상측정 터치 프로브, 자동 도어 개폐 장치</div><div style="color:#1a2233;font-weight:700">5~6인 1셀·3식</div></div><div class="r"><b>AI 비전 검사 실습실</b> <span class="chip" style="font-size:12.5px;padding:2px 7px">1순위</span><div>산업용 카메라·렌즈·조명, 머신비전 소프트웨어, 암막 검사 부스, GPU 워크스테이션, 라벨링 도구</div><div style="color:#1a2233;font-weight:700">2인 1식·8세트, GPU 8식</div></div><div class="r"><b>AI 자율가공실</b> <span class="chip" style="font-size:12.5px;padding:2px 7px">1순위</span><div>데이터 수집 게이트웨이, 진동·전류·온도 센서, SCADA·대시보드 소프트웨어, 표시장치</div><div style="color:#1a2233;font-weight:700">1인 1대·18식, 장비 연동 8식</div></div><div class="r"><b>AI 로봇과 자동제어 실습실</b> <span class="chip" style="font-size:12.5px;padding:2px 7px">2순위</span><div>자율주행 로봇(AMR), 충전 스테이션, 로봇 제어 실습 키트, 티칭 펜던트</div><div style="color:#1a2233;font-weight:700">AMR 2대, 키트 8식</div></div><div class="r"><b>프로젝트실·CAD/CAM실</b> <span class="chip" style="font-size:12.5px;padding:2px 7px">3순위</span><div>합동 프로젝트용 대형 작업대, 계측·기록 장비, CAD/CAM 예비 실습환경</div><div style="color:#1a2233;font-weight:700">4인 1조·8대</div></div></div></div></div><div class="foot">피지컬AI설계제작과 변경예정안 최종본 7장 「실습실 배치 전환 및 기자재 구축 계획(2028~2030)」</div></div></body></html>
+.rmh{border-radius:16px 16px 0 0;padding:12px 16px;color:#fff} .rmh b{font-size:26px} .rmh span{font-size:14.5px;display:block} .rmb{background:#fff;border:2px solid #E3E0F5;border-top:none;border-radius:0 0 16px 16px;padding:12px 14px} .rmb .r{margin-bottom:11px;padding-left:10px;border-left:4px solid #E9E3FF} .rmb .r b{font-size:16px} .rmb .r div{font-size:14px;color:#4a5261;line-height:1.45}</style></head><body><div class="w"><h1><em>피지컬AI설계제작과</em> 실습실·기자재 3개년 로드맵</h1><div class="sub">1기 신입생 2028년 3월 입학 — 실습실과 기자재는 그 학년이 개설되는 해에 맞추어 구축한다</div><div class="story"><span class="st l">2028 · 1학년용</span><span class="arw">▶</span><span class="st">2029 · 2학년용</span><span class="arw">▶</span><span class="st">2030 · 3학년용</span></div><div class="rm"><div><div class="rmh" style="background:#2FA4E7"><b>2028년</b><span>1기 입학·1학년 실습실 구축 및 기존 공간 보호</span></div><div class="rmb"><div class="hd" style="font-size:15.5px;color:#2FA4E7">실습실 배치·전환</div><div class="r"><b>선반 가공실·밀링가공실</b><div>창조관 1층 우측·중앙 · 2028.1 동계방학</div><div>기존 범용기 실습실 개보수, 전기·집진·안전펜스 보강</div></div><div class="r"><b>기계기초공작실(구 제품개발실 재통합)</b><div>창조관 1층 우측 · 2028.7 하계방학</div><div>측정·메이커 분할 계획을 취소하고 수가공 작업대와 선반·밀링 강의 기능을 하나의 기계기초공작실로 재통합</div></div><div class="r"><b>빅 데이터 분석실(MCT-2 전환)</b><div>창조관 1층 중앙 MCT-2 · 2028.7 하계방학</div><div>MCT-2를 분석용 컴퓨터실로 전환하고 전원·냉방·서버 랙 증설</div></div><div class="r"><b>밀링 강의실·학과사무실·준비실</b><div>창조관 1층 중앙·우측 · 2028.7</div><div>도색·조명·수납 중심의 경미 개보수</div></div><div class="r"><b>측정·메이커·3D프린터 기능 이전 준비</b><div>명장관 2층 우측 3실(2029년 겨울 전환 예정) · 2028 계획 확정</div><div>창조관 우측동 분할 계획을 취소하고 명장관 2층 3실 이전·전환 계획과 기존 공간 존치 원칙 확정</div></div><div class="hd" style="font-size:15.5px;color:#2FA4E7;margin-top:8px">기자재</div><div class="r"><b>선반 가공실</b> <span class="chip" style="font-size:12.5px;padding:2px 7px">1순위</span><div>범용 선반, 탭·드릴·보링 공구 세트, 안전 방호장치</div><div style="color:#1a2233;font-weight:700">2인 1대·8대</div></div><div class="r"><b>밀링가공실</b> <span class="chip" style="font-size:12.5px;padding:2px 7px">1순위</span><div>범용 밀링, 집진 설비</div><div style="color:#1a2233;font-weight:700">2인 1대·8대</div></div><div class="r"><b>기계기초공작실</b> <span class="chip" style="font-size:12.5px;padding:2px 7px">1순위</span><div>수공구 세트(줄·톱·바이스), 수가공 작업대, 선반·밀링 강의용 모형</div><div style="color:#1a2233;font-weight:700">2인 1대·8대</div></div><div class="r"><b>빅 데이터 분석실</b> <span class="chip" style="font-size:12.5px;padding:2px 7px">2순위</span><div>분석용 PC(파이썬 환경), 실습 서버, 대형 표시장치</div><div style="color:#1a2233;font-weight:700">1인 1대+예비 2·18식</div></div><div class="r"><b>측정·메이커·3D프린터 이전 준비</b> <span class="chip" style="font-size:12.5px;padding:2px 7px">2순위</span><div>명장관 2층 3실 전환을 위한 공간·전기·환기 정비 설계 및 이전 준비</div><div style="color:#1a2233;font-weight:700">3실</div></div><div class="r"><b>공통</b> <span class="chip" style="font-size:12.5px;padding:2px 7px">1순위</span><div>버니어캘리퍼스·마이크로미터 등 기초 측정기 세트, 안전보호구</div><div style="color:#1a2233;font-weight:700">2인 1세트·8식</div></div></div></div><div><div class="rmh" style="background:#2563EB"><b>2029년</b><span>1기 2학년 진급·2학년 실습실 정비 및 겨울방학 1차 전환</span></div><div class="rmb"><div class="hd" style="font-size:15.5px;color:#2563EB">실습실 배치·전환</div><div class="r"><b>기계요소설계 실습실(+CAD 기능 통합 → 설계실습실)</b><div>창조관 1층 중앙 · 2029.7 하계방학</div><div>기계요소설계 실습실에 CAD 기능을 통합하여 3D 설계·도면 출력 환경 구축</div></div><div class="r"><b>컴퓨터 활용 생산 CNC선반</b><div>창조관 1층 우측 · 2029.7 하계방학</div><div>CNC 선반·공구 프리세터·절삭공구 구축, 바닥 하중 및 3상 전원 보강</div></div><div class="r"><b>측정실·메이커실·3D프린터실</b><div>명장관 2층 우측 3실 · 2029년 겨울방학</div><div>구 재료실·구 AI실·기존 3D프린터실을 전환하고 항온·방진·환기·전기 설비를 정비</div></div><div class="hd" style="font-size:15.5px;color:#2563EB;margin-top:8px">기자재</div><div class="r"><b>측정실(명장관 2층)</b> <span class="chip" style="font-size:12.5px;padding:2px 7px">2순위</span><div>하이트게이지, 투영기, 표면조도계, 측정기 교정 세트, 항온 관리 설비</div><div style="color:#1a2233;font-weight:700">2인 1세트·8식</div></div><div class="r"><b>컴퓨터 활용 생산 CNC선반</b> <span class="chip" style="font-size:12.5px;padding:2px 7px">1순위</span><div>CNC 선반, CAM 소프트웨어, 공구 프리세터, 절삭공구·홀더</div><div style="color:#1a2233;font-weight:700">6대·CAM 18라이선스</div></div><div class="r"><b>기계요소설계 실습실</b> <span class="chip" style="font-size:12.5px;padding:2px 7px">1순위</span><div>3D 워크스테이션, 2D·3D CAD 소프트웨어, 전자칠판, 도면 출력기</div><div style="color:#1a2233;font-weight:700">1인 1대+예비 2·18식</div></div><div class="r"><b>메이커실·3D프린터실</b> <span class="chip" style="font-size:12.5px;padding:2px 7px">2순위</span><div>조립 작업대·전동공구·소형 제어 실습 키트·FDM 3D프린터·후가공대·환기 설비</div><div style="color:#1a2233;font-weight:700">조립 작업대 8대·3D프린터 8대</div></div></div></div><div><div class="rmh" style="background:#4F46E5"><b>2030년</b><span>MCT-1·명장관 1층·3학년 AX 실습실 전환</span></div><div class="rmb"><div class="hd" style="font-size:15.5px;color:#4F46E5">실습실 배치·전환</div><div class="r"><b>피지컬 AI 실습실</b><div>명장관 1층 우측 · 2030.7 여름방학</div><div>협동로봇 셀 신설, 안전펜스·스캐너·바닥 앵커·3상 전원 구축</div></div><div class="r"><b>AI 비전 검사 실습실</b><div>명장관 1층 우측 기존 로봇 기구개발 실습실 전환 · 2030.7 여름방학</div><div>암막·조명 제어·검사 부스·GPU 서버 랙 설치 및 용도 전환</div></div><div class="r"><b>AI 자율가공실</b><div>창조관 1층 우측 · 2030.7 여름방학</div><div>데이터 수집 게이트웨이와 대시보드 표시장치 신설</div></div><div class="r"><b>AI 로봇과 자동제어 실습실</b><div>창조관 1층 중앙 기존 로봇과 자동제어 실습실1 · 2030.7 여름방학</div><div>명칭 정비, AMR 주행 구역 및 충전 스테이션 확보</div></div><div class="r"><b>프로젝트실·CAD/CAM실</b><div>명장관 1층 우측 구 도제교육센터 · 2030.7 여름방학</div><div>구 도제교육센터 자리 전환, 프로젝트용 대형 작업대·전원 증설 및 CAD/CAM실 예비 실습환경 확보</div></div><div class="hd" style="font-size:15.5px;color:#4F46E5;margin-top:8px">기자재</div><div class="r"><b>피지컬 AI 실습실</b> <span class="chip" style="font-size:12.5px;padding:2px 7px">1순위</span><div>협동로봇·그리퍼·안전 스캐너 셀, CNC-로봇 연동 I/O 모듈, 기상측정 터치 프로브, 자동 도어 개폐 장치</div><div style="color:#1a2233;font-weight:700">5~6인 1셀·3식</div></div><div class="r"><b>AI 비전 검사 실습실</b> <span class="chip" style="font-size:12.5px;padding:2px 7px">1순위</span><div>산업용 카메라·렌즈·조명, 머신비전 소프트웨어, 암막 검사 부스, GPU 워크스테이션, 라벨링 도구</div><div style="color:#1a2233;font-weight:700">2인 1식·8세트, GPU 8식</div></div><div class="r"><b>AI 자율가공실</b> <span class="chip" style="font-size:12.5px;padding:2px 7px">1순위</span><div>데이터 수집 게이트웨이, 진동·전류·온도 센서, SCADA·대시보드 소프트웨어, 표시장치</div><div style="color:#1a2233;font-weight:700">1인 1대·18식, 장비 연동 8식</div></div><div class="r"><b>AI 로봇과 자동제어 실습실</b> <span class="chip" style="font-size:12.5px;padding:2px 7px">2순위</span><div>자율주행 로봇(AMR), 충전 스테이션, 로봇 제어 실습 키트, 티칭 펜던트</div><div style="color:#1a2233;font-weight:700">AMR 2대, 키트 8식</div></div><div class="r"><b>프로젝트실·CAD/CAM실</b> <span class="chip" style="font-size:12.5px;padding:2px 7px">3순위</span><div>합동 프로젝트용 대형 작업대, 계측·기록 장비, CAD/CAM 예비 실습환경</div><div style="color:#1a2233;font-weight:700">4인 1조·8대</div></div></div></div></div><div class="foot">피지컬AI설계제작과 변경예정안 최종본 7장 「실습실 배치 전환 및 기자재 구축 계획(2028~2030)」</div></div></body></html>

diff --git a/05_22쪽_취업자격진학_변경전후.html b/05_22쪽_취업자격진학_변경전후.html
@@ -128,7 +128,7 @@
         <li><span class="new">자동화설비기능사</span><span class="add">추가</span></li>
         <li><span class="new">스마트공장기능사</span><span class="add">추가</span></li>
         <li><span class="new">3D프린터운용기능사</span><span class="add">추가</span><em>기계요소설계 &lt;3D형상모델링작업&gt;과 연결</em></li>
-        <li><span class="new">로봇시스템통합기능사</span><span class="add">2028 신설</span><em>2028.1.1. 신설 — 본교 1기 입학(2029. 3.) 전</em></li>
+        <li><span class="new">로봇시스템통합기능사</span><span class="add">2028 신설</span><em>2028.1.1. 신설 — 본교 1기 입학(2028. 3.) 전</em></li>
         <li><span class="new">AICE</span></li>
       </ul>
     </div>
